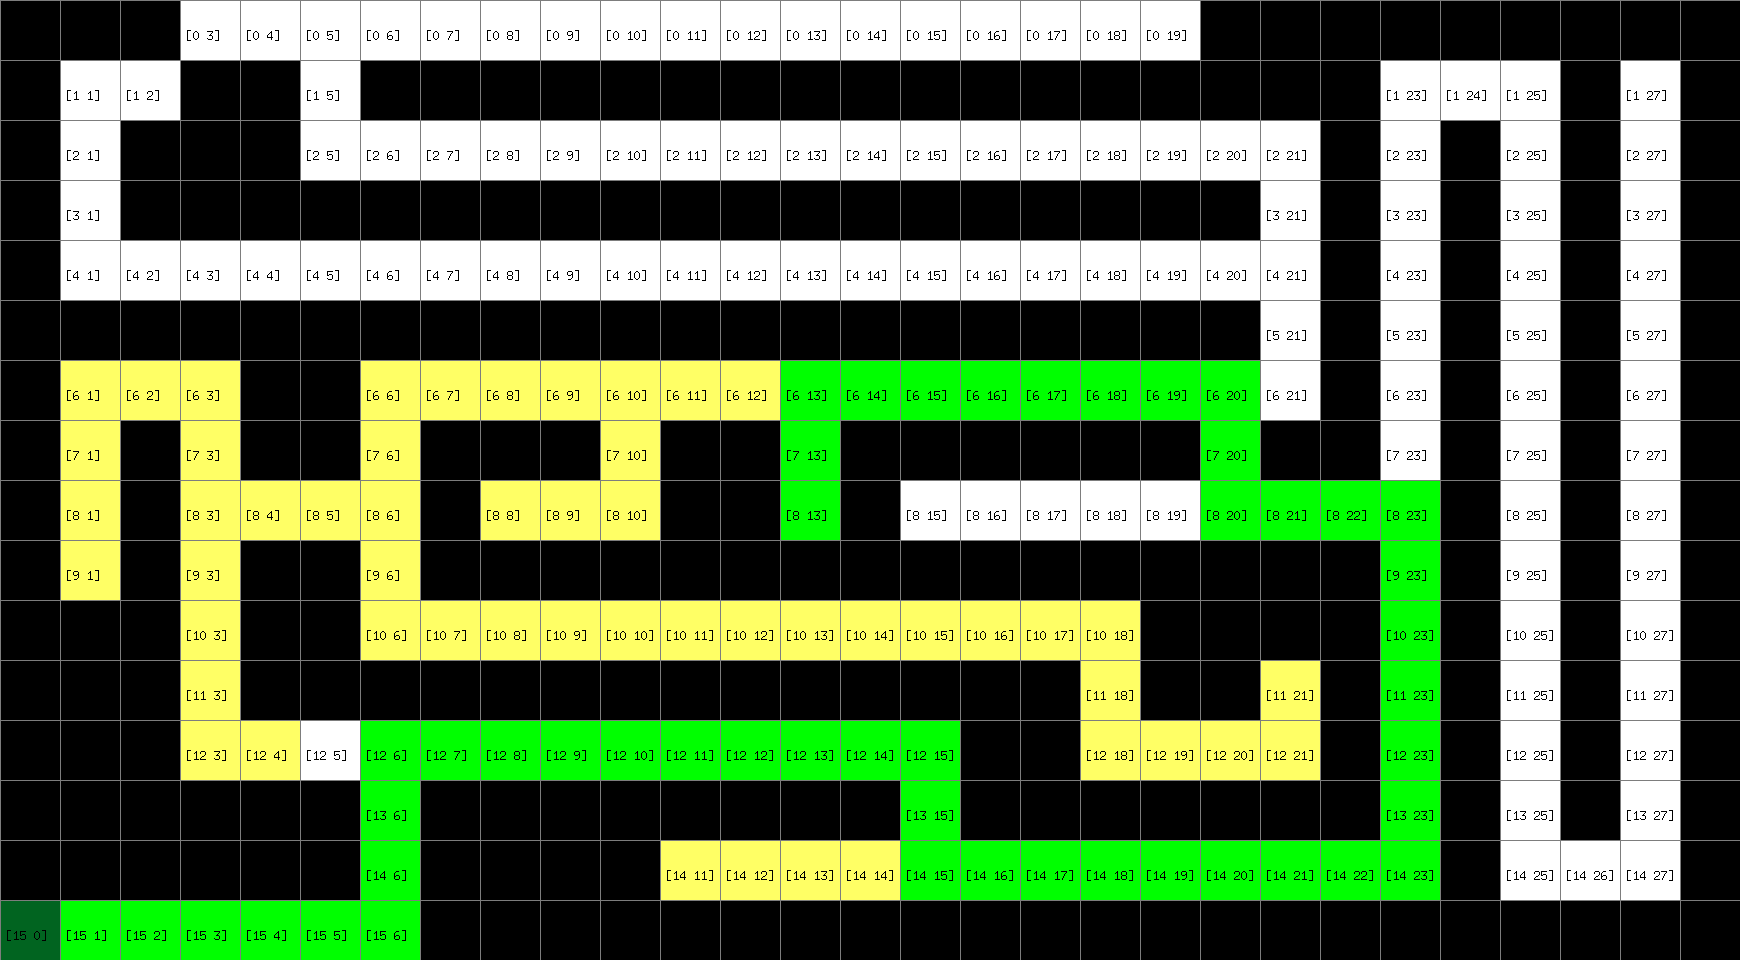
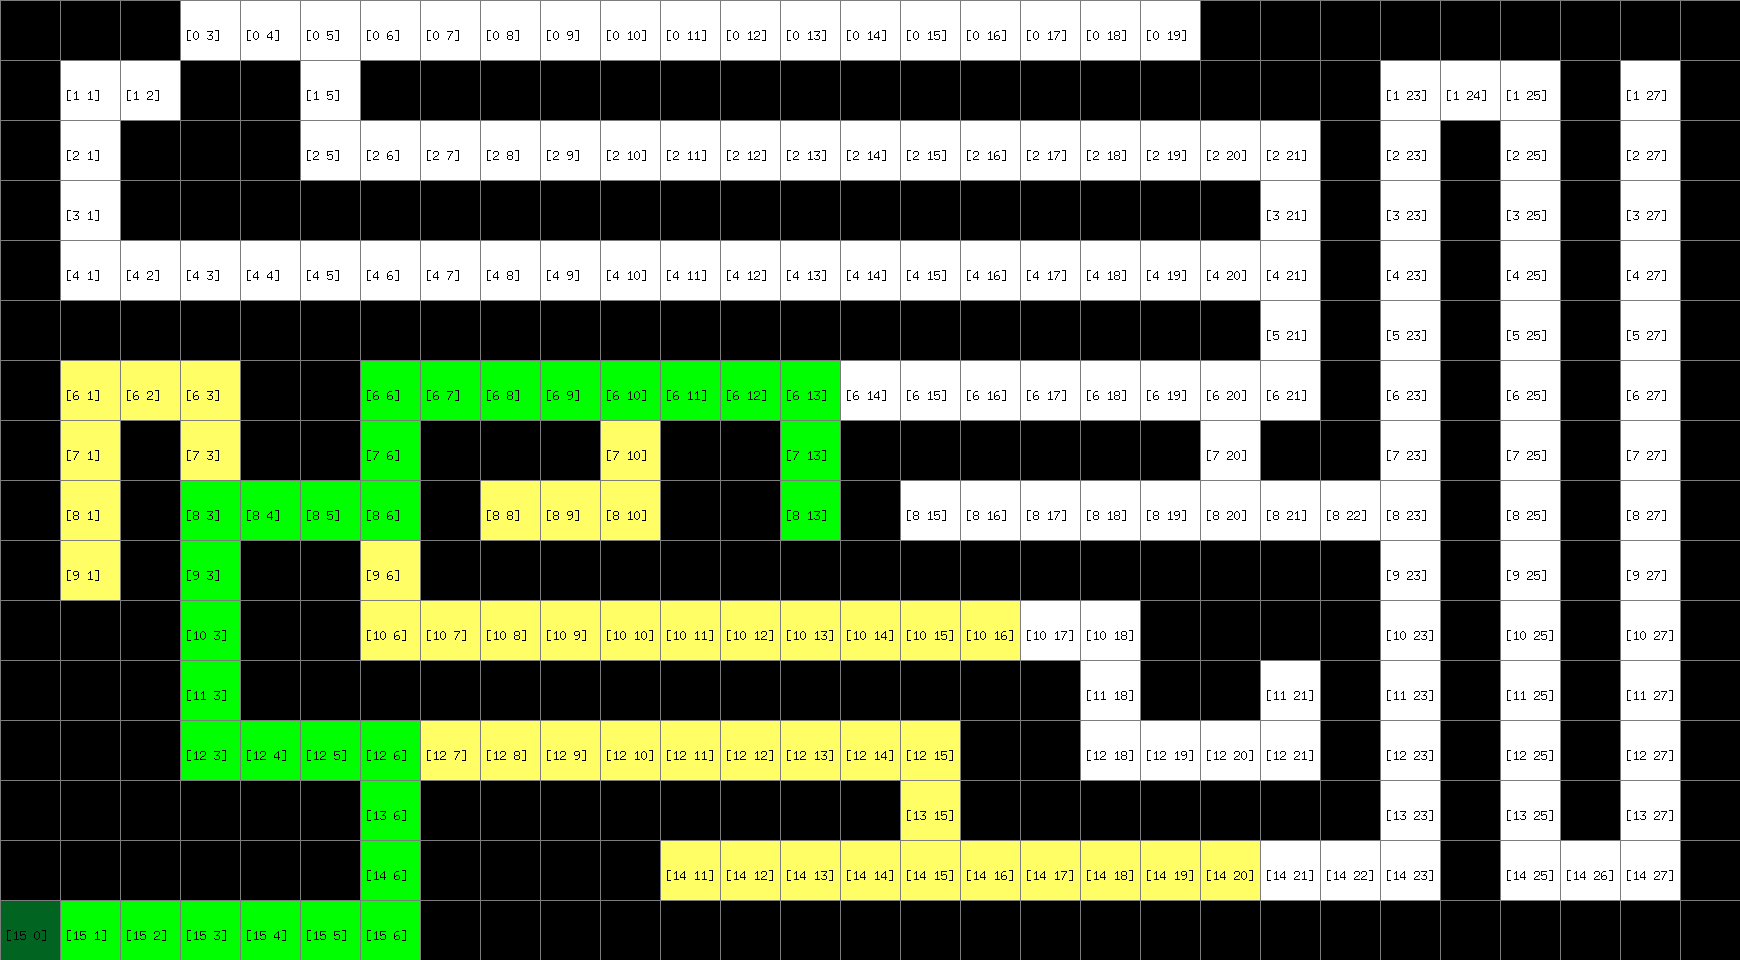
Dijkstra search implemented

Changed region(s): [[0.0931, 0.375, 0.8379, 0.9375]]

diff --git a/dijkstra.go b/dijkstra.go
@@ -1,0 +1,157 @@
+package main
+
+import (
+	"container/heap"
+	"errors"
+	"fmt"
+	"log"
+	"math/rand"
+	"slices"
+)
+
+type DijkstraSearch struct {
+	Frontier PriorityQueueDijkstra
+	Game     *Maze
+}
+
+func (d *DijkstraSearch) GetFrontier() []*Node {
+	return d.Frontier
+}
+
+func (d *DijkstraSearch) Add(i *Node) {
+	i.CostToGoal = i.ManhattanDistance(d.Game.Start)
+	d.Frontier.Push(i)
+	heap.Init(&d.Frontier)
+}
+
+func (d *DijkstraSearch) ContainsState(i *Node) bool {
+	for _, x := range d.Frontier {
+		if i.State == x.State {
+			return true
+		}
+	}
+	return false
+}
+
+func (d *DijkstraSearch) Empty() bool {
+	return len(d.Frontier) == 0
+}
+
+func (d *DijkstraSearch) Remove() (*Node, error) {
+	if len(d.Frontier) > 0 {
+		if d.Game.Debug {
+			fmt.Println("Frontier before remove:")
+			for _, x := range d.Frontier {
+				fmt.Println("Node:", x.State)
+			}
+		}
+		return heap.Pop(&d.Frontier).(*Node), nil
+
+	}
+	return nil, errors.New("Frontier is empty")
+}
+
+func (d *DijkstraSearch) Solve() {
+	fmt.Println("Starting to solve maze using Djikstra search ...")
+	d.Game.NumExplored = 0
+
+	start := Node{
+		State:  d.Game.Start,
+		Parent: nil,
+		Action: "",
+	}
+	d.Add(&start)
+	d.Game.CurrentNode = &start
+
+	for {
+		if d.Empty() {
+			return
+		}
+
+		currentNode, err := d.Remove()
+		if err != nil {
+			log.Println(err)
+			return
+		}
+
+		if d.Game.Debug {
+			fmt.Println("Removed", currentNode.State)
+			fmt.Println("-----------")
+			fmt.Println()
+		}
+
+		d.Game.CurrentNode = currentNode
+		d.Game.NumExplored += 1
+
+		if d.Game.Goal == currentNode.State {
+			var actions []string
+			var cells []Point
+
+			for {
+				if currentNode.Parent != nil {
+					actions = append(actions, currentNode.Action)
+					cells = append(cells, currentNode.State)
+					currentNode = currentNode.Parent
+				} else {
+					break
+				}
+			}
+			slices.Reverse(actions)
+			slices.Reverse(cells)
+
+			d.Game.Solution = Solution{
+				Actions: actions,
+				Cells:   cells,
+			}
+			d.Game.Explored = append(d.Game.Explored, currentNode.State)
+			break
+		}
+
+		d.Game.Explored = append(d.Game.Explored, currentNode.State)
+
+		if d.Game.Animate {
+			d.Game.OutputImage(fmt.Sprintf("tmp/%06d.png", d.Game.NumExplored))
+		}
+
+		for _, x := range d.Neighbors(currentNode) {
+			if !d.ContainsState(x) {
+				if !inExplored(x.State, d.Game.Explored) {
+					d.Add(&Node{
+						State:  x.State,
+						Parent: currentNode,
+						Action: x.Action,
+					})
+				}
+			}
+		}
+	}
+}
+
+func (d *DijkstraSearch) Neighbors(node *Node) []*Node {
+	row := node.State.Row
+	col := node.State.Col
+
+	candidates := []*Node{
+		{State: Point{Row: row - 1, Col: col}, Parent: node, Action: "up"},
+		{State: Point{Row: row + 1, Col: col}, Parent: node, Action: "down"},
+		{State: Point{Row: row, Col: col - 1}, Parent: node, Action: "left"},
+		{State: Point{Row: row, Col: col + 1}, Parent: node, Action: "right"},
+	}
+
+	var neighbors []*Node
+	for _, x := range candidates {
+		if 0 <= x.State.Row && x.State.Row < d.Game.Height {
+			if 0 <= x.State.Col && x.State.Col < d.Game.Width {
+				if !d.Game.Walls[x.State.Row][x.State.Col].wall {
+					neighbors = append(neighbors, x)
+				}
+			}
+		}
+	}
+
+	for i := range neighbors {
+		j := rand.Intn(i + 1)
+		neighbors[i], neighbors[j] = neighbors[j], neighbors[i]
+	}
+	return neighbors
+}

diff --git a/priority-queue-dijkstra.go b/priority-queue-dijkstra.go
@@ -1,0 +1,34 @@
+package main
+
+type PriorityQueueDijkstra []*Node
+
+func (pq PriorityQueueDijkstra) Len() int {
+	return len(pq)
+}
+
+func (pq PriorityQueueDijkstra) Less(i, j int) bool {
+	return pq[i].CostToGoal < pq[j].CostToGoal
+}
+
+func (pq PriorityQueueDijkstra) Swap(i, j int) {
+	pq[i], pq[j] = pq[j], pq[i]
+	pq[i].index = i
+	pq[j].index = j
+}
+
+func (pq *PriorityQueueDijkstra) Push(x any) {
+	n := len(*pq)
+	item := x.(*Node)
+	item.index = n
+	*pq = append(*pq, item)
+}
+
+func (pq *PriorityQueueDijkstra) Pop() any {
+	old := *pq
+	n := len(old)
+	item := old[n-1]
+	old[n-1] = nil
+	item.index = -1
+	*pq = old[0 : n-1]
+	return item
+}

diff --git a/main.go b/main.go
@@ -34,10 +34,15 @@ type Wall struct {
 }
 
 type Node struct {
-	index  int
-	State  Point
-	Parent *Node
-	Action string
+	index      int
+	State      Point
+	Parent     *Node
+	Action     string
+	CostToGoal int
+}
+
+func (n *Node) ManhattanDistance(goal Point) int {
+	return abs(n.State.Row-goal.Row) + abs(n.State.Col-goal.Col)
 }
 
 type Solution struct {
@@ -91,6 +96,10 @@ func main() {
 	case "bfs":
 		m.searchType = BFS
 		solveBFS(&m)
+
+	case "dijkstra":
+		m.searchType = DIJKSTRA
+		solveDijkstra(&m)
 
 	default:
 		fmt.Println("Invalid search type.")
@@ -149,6 +158,12 @@ func solveDFS(m *Maze) {
 }
 func solveBFS(m *Maze) {
 	var s BreadthFirstSearch
+	s.Game = m
+	fmt.Println("Goal is ", s.Game.Goal)
+	s.Solve()
+}
+func solveDijkstra(m *Maze) {
+	var s DijkstraSearch
 	s.Game = m
 	fmt.Println("Goal is ", s.Game.Goal)
 	s.Solve()

diff --git a/helper.go b/helper.go
@@ -22,3 +22,10 @@ func emptyTmp() {
 		_ = os.Remove(fullPath)
 	}
 }
+
+func abs(x int) int {
+	if x < 0 {
+		return -x
+	}
+	return x
+}